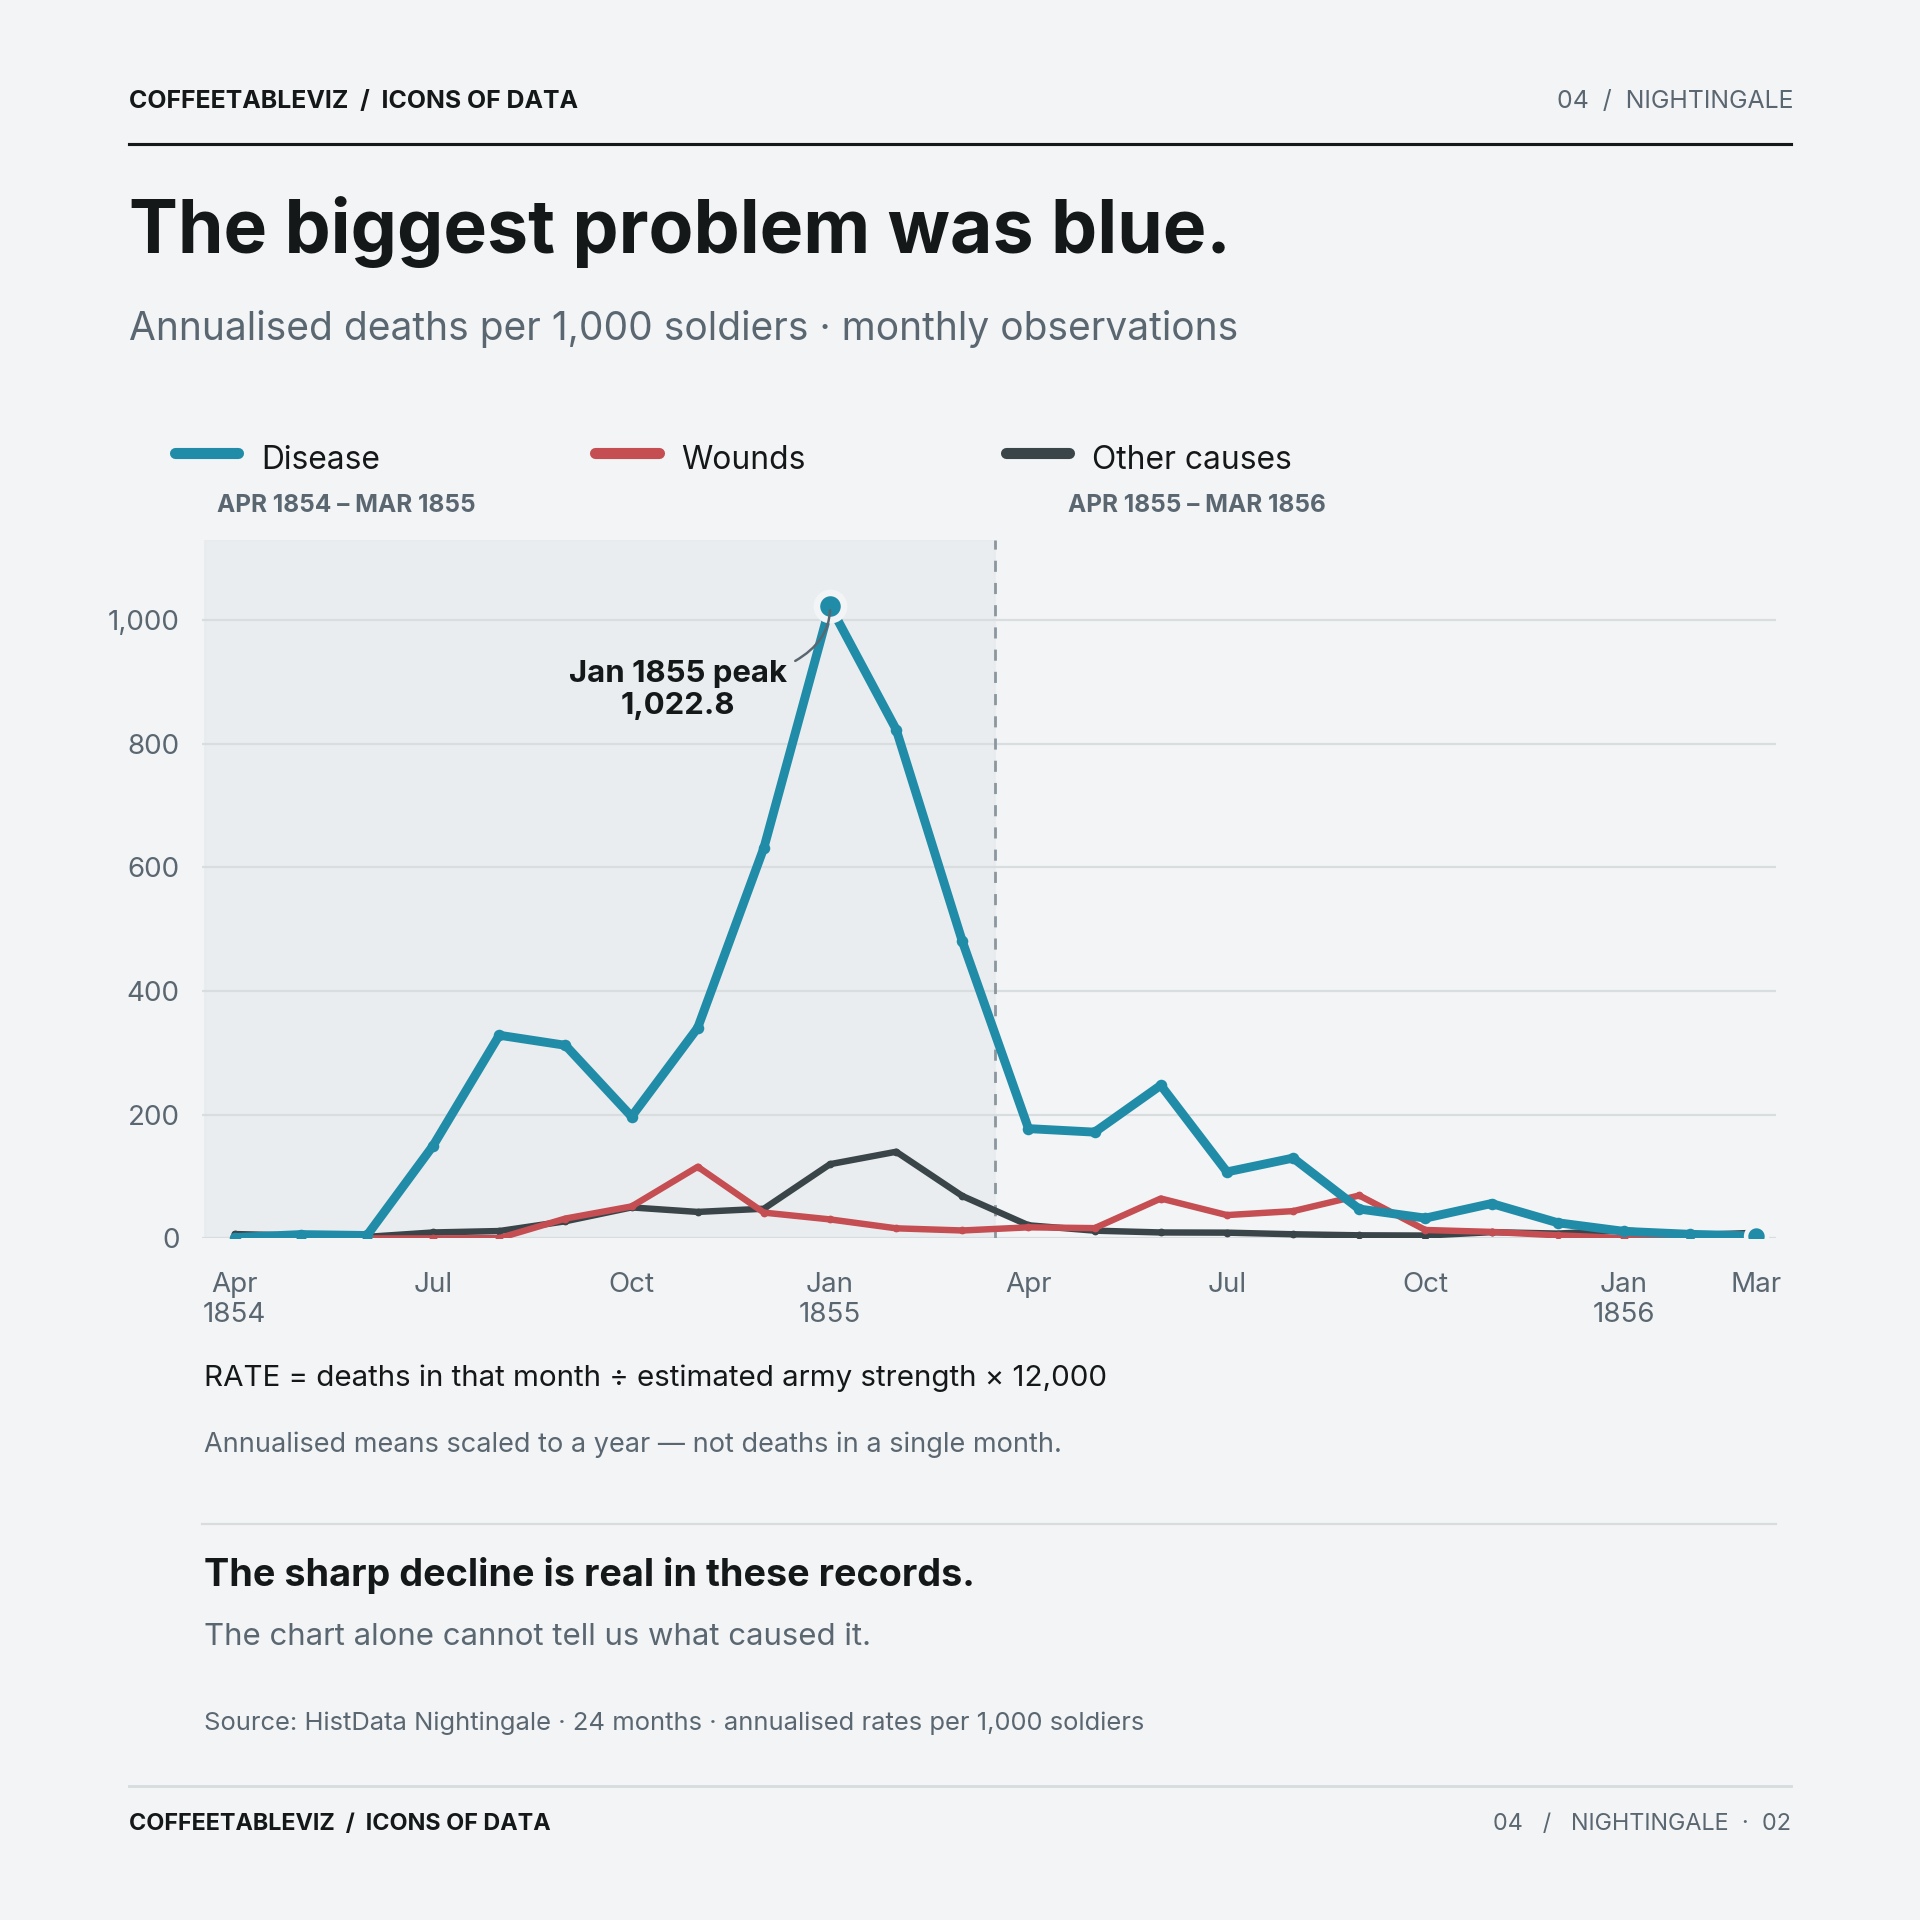
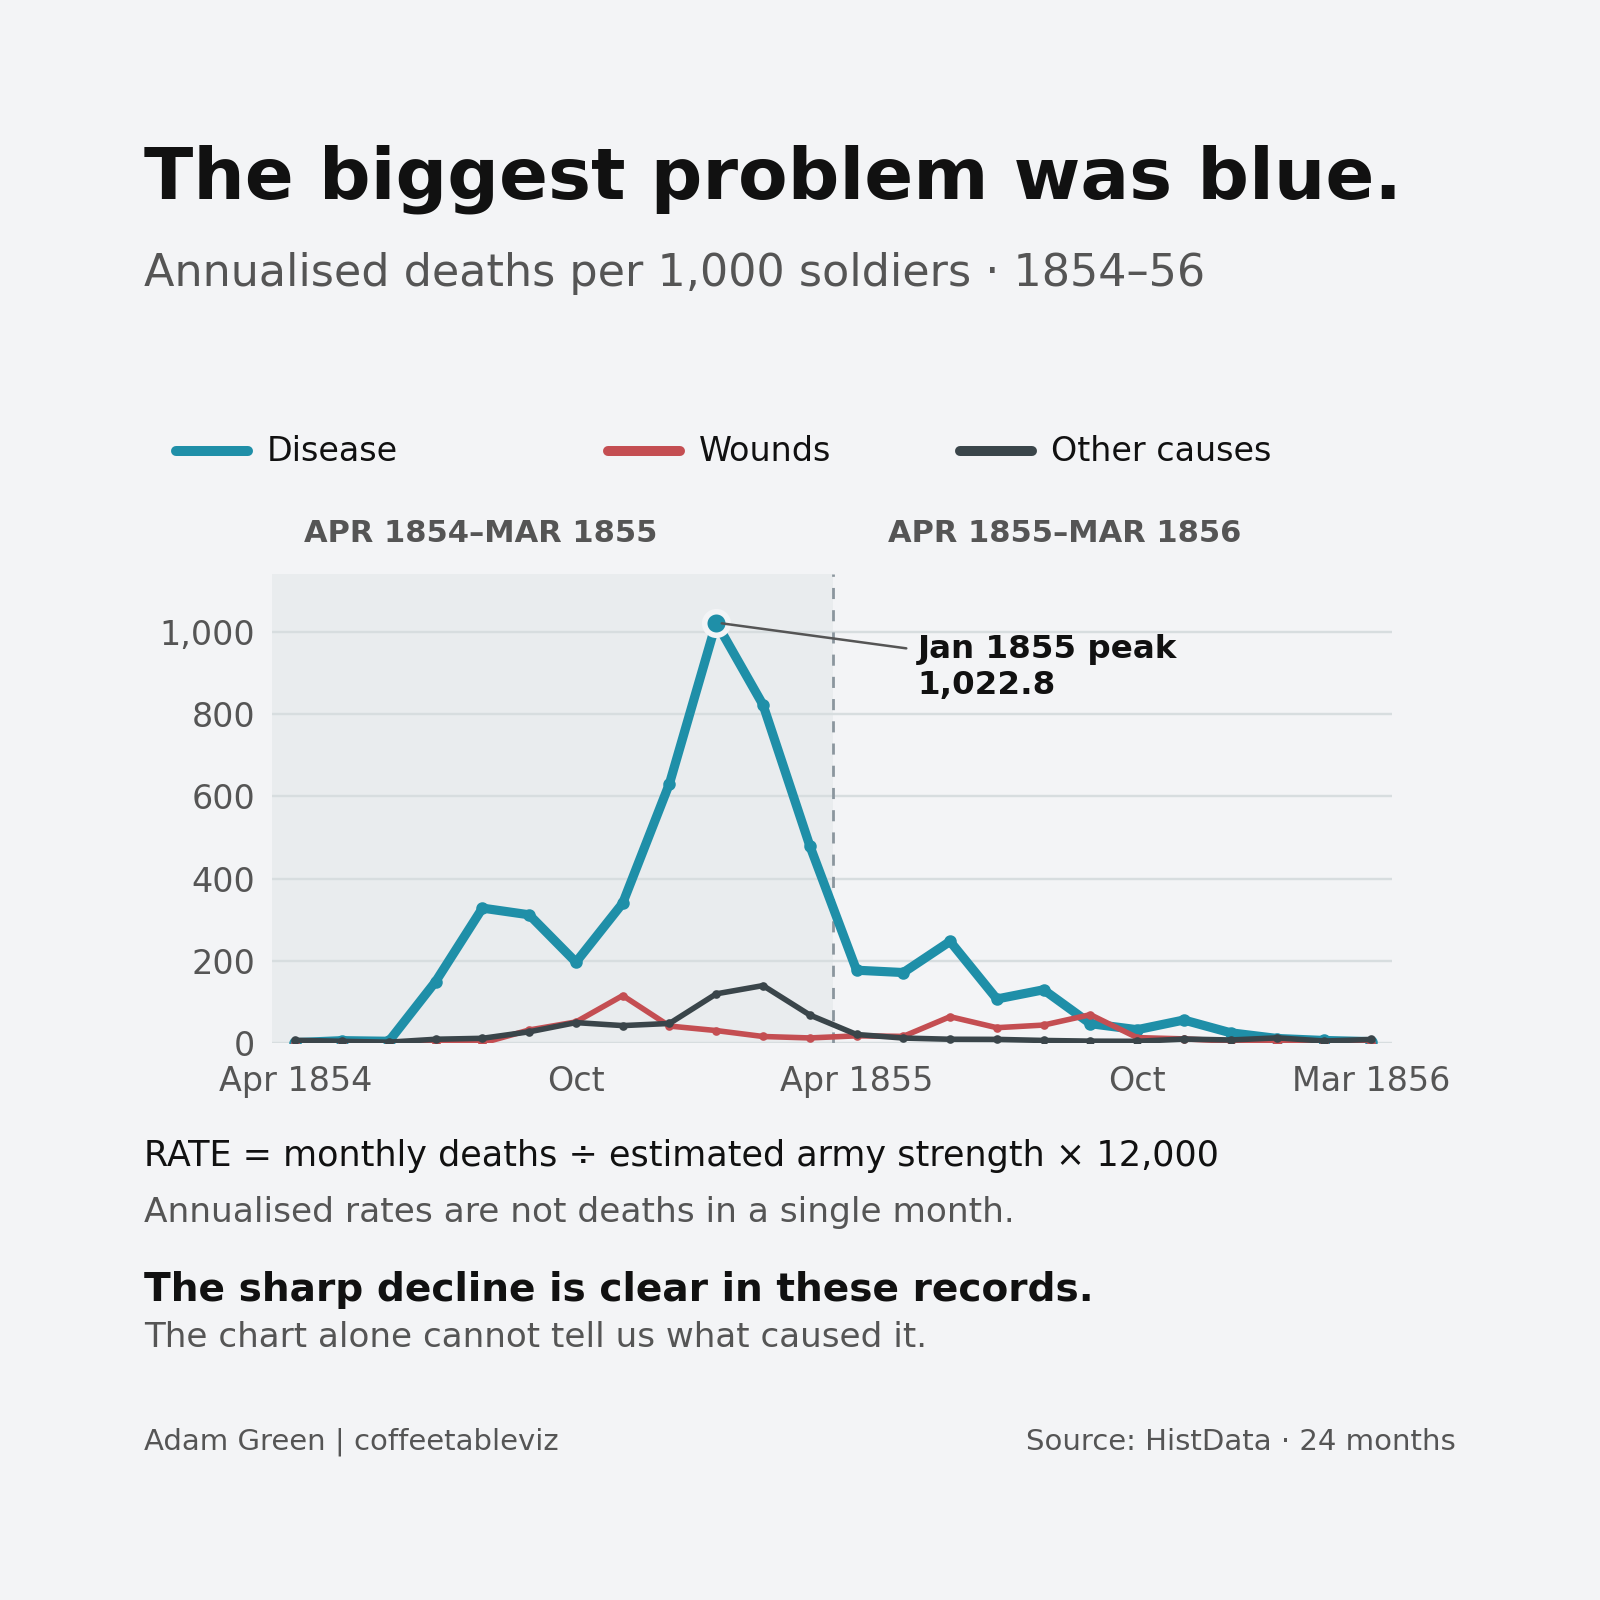
Publish approved Nightingale vNext chart and archive original
* Add data-validated Nightingale rate chart using central Coffeetableviz styling

* Register Nightingale as a shared CHART_CONFIG specialist chart type

* Add Nightingale CHART_CONFIG review fixture pointing to pinned HistData dataset

* Add Nightingale rate integrity tests and isolated GitHub mobile image QA

* Add Nightingale rate integrity tests and isolated GitHub mobile image QA

* Document Nightingale specialist chart type in shared config template

* Fix mobile tick crowding and peak annotation line break, enlarge explanatory copy

* Add one-time exact-artifact Nightingale publication staging gate

* Verify Nightingale PNG metadata without external Python dependencies

* Record author approval of exact Nightingale PNG for publication PR

* Stage exact author-approved Nightingale vNext PNG and preserve original

* Remove temporary one-time exact-artifact staging workflow after successful checksum verification

* Document author-approved Nightingale PNG, checksum and preserved original

---------

diff --git a/src/editorial_nightingale.py b/src/editorial_nightingale.py
@@ -1,0 +1,121 @@
+"""Nightingale's 24-month annualised cause-of-death rates.
+
+A specialised but centrally styled Coffeetableviz chart type. This module
+does not contain data values: it renders the exact pinned HistData rows from
+CHART_CONFIG and validates them before drawing. Do not infer causality.
+"""
+from __future__ import annotations
+
+from datetime import datetime
+from pathlib import Path
+
+import matplotlib.pyplot as plt
+import numpy as np
+
+from chart_style import BG, PRIMARY, ACCENT, TEXT, MUTED, resolve_style
+
+OTHER = "#3A454A"
+GRID = "#D7DDDF"
+CAUSES = (
+    ("Disease.rate", PRIMARY, "Disease", 3.3),
+    ("Wounds.rate", ACCENT, "Wounds", 2.0),
+    ("Other.rate", OTHER, "Other causes", 2.0),
+)
+REQUIRED = {
+    "Date", "Army", "Disease", "Wounds", "Other",
+    "Disease.rate", "Wounds.rate", "Other.rate",
+}
+
+
+def validate_nightingale_rows(rows):
+    """Fail closed if the verified source, ordering or rates drift."""
+    if len(rows) != 24:
+        raise ValueError("Nightingale chart expects 24 monthly HistData records")
+    if not REQUIRED.issubset(set(rows[0])):
+        raise ValueError(f"Missing Nightingale fields: {sorted(REQUIRED - set(rows[0]))}")
+    dates = [datetime.strptime(str(r["Date"]), "%Y-%m-%d") for r in rows]
+    if dates[0].strftime("%Y-%m") != "1854-04" or dates[-1].strftime("%Y-%m") != "1856-03":
+        raise ValueError("Nightingale date range must be Apr 1854–Mar 1856")
+    if any((n.year-p.year)*12 + (n.month-p.month) != 1 for p,n in zip(dates,dates[1:])):
+        raise ValueError("Nightingale must contain exactly consecutive months")
+
+    for r in rows:
+        strength = float(r["Army"])
+        if strength <= 0:
+            raise ValueError("Army strength must be positive")
+        for cause in ("Disease", "Wounds", "Other"):
+            calculated = 12_000 * float(r[cause]) / strength
+            if abs(calculated - float(r[cause + ".rate"])) > 0.051:
+                raise ValueError(f"Invalid annualised {cause} rate for {r['Date']}")
+
+    totals = tuple(sum(int(r[cause]) for r in rows[:12])
+                   for cause in ("Disease","Wounds","Other"))
+    later = tuple(sum(int(r[cause]) for r in rows[12:])
+                  for cause in ("Disease","Wounds","Other"))
+    if totals != (11157, 772, 1365) or later != (3319, 986, 383):
+        raise ValueError("Historical period totals no longer match validated source")
+    if dates[9].strftime("%Y-%m") != "1855-01" or abs(float(rows[9]["Disease.rate"])-1022.8) > .001:
+        raise ValueError("Expected January 1855 annualised-rate peak is missing")
+    if abs(float(rows[-1]["Disease.rate"])-3.9) > .001:
+        raise ValueError("Expected March 1856 disease rate is missing")
+    return dates
+
+
+def render_nightingale_rates(repo_root, config, rows):
+    """Render the original 24-month story in the approved square house frame."""
+    from editorial_schematics import _add_header, _add_footer, _save
+
+    dates = validate_nightingale_rows(rows)
+    if config.get("render_profile") != "social_square":
+        raise ValueError("Nightingale vNext requires the approved shared social_square house profile")
+    st = resolve_style(config)
+    fig = plt.figure(figsize=(8,8), facecolor=BG)
+    _add_header(fig, config["title"], config["subtitle"], config=config)
+
+    # Shared house positioning: all content inside the 8.5% reference frame.
+    legend_y = .718
+    for x, col, label, _ in ((.11,PRIMARY,"Disease",0),(.38,ACCENT,"Wounds",0),(.60,OTHER,"Other causes",0)):
+        fig.add_artist(plt.Line2D([x,x+.045],[legend_y,legend_y],
+                    transform=fig.transFigure,color=col,lw=3.6,solid_capstyle="round"))
+        fig.text(x+.057,legend_y,label,color=TEXT,va="center",fontsize=12.0)
+
+    ax = fig.add_axes([.17,.348,.70,.293], facecolor=BG)
+    x = np.arange(len(dates))
+    ax.axvspan(-.5,11.5,facecolor="#E6EAEC",alpha=.70,zorder=0)
+    ax.axvline(11.5,color="#8B969E",lw=1.0,ls=(0,(4,4)),zorder=1)
+    for key, colour, label, lw in CAUSES:
+        vals=np.array([float(row[key]) for row in rows])
+        ax.plot(x, vals, color=colour, lw=lw, zorder=3, solid_capstyle="round",
+                marker="o", markersize=3.5 if key=="Disease.rate" else 2.1)
+    ax.scatter([9],[1022.8],color=PRIMARY,s=72,edgecolor=BG,linewidths=2.0,zorder=7)
+    ax.annotate("Jan 1855 peak" + chr(10) + "1,022.8",xy=(9,1022.8),xytext=(13.3,995),
+        fontsize=11.7,color=TEXT,fontweight="bold",va="top",ha="left",zorder=8,
+        arrowprops={"arrowstyle":"-","color":MUTED,"lw":.9})
+    ax.set_xlim(-.5,23.45)
+    ax.set_ylim(0,1140)
+    ax.set_yticks([0,200,400,600,800,1000])
+    ax.set_yticklabels(["0","200","400","600","800","1,000"])
+    ax.set_xticks([0,6,12,18,23])
+    ax.set_xticklabels(["Apr 1854","Oct","Apr 1855","Oct","Mar 1856"])
+    ax.tick_params(axis="both",which="both",length=0,colors=MUTED,labelsize=st["tick_label_fontsize"])
+    ax.tick_params(axis="x",pad=8)
+    ax.tick_params(axis="y",pad=6)
+    for spine in ax.spines.values():spine.set_visible(False)
+    ax.grid(axis="y",color=GRID,lw=.85)
+    ax.set_axisbelow(True)
+
+    fig.text(.19,.661,"APR 1854–MAR 1855",fontsize=11,color=MUTED,weight="bold")
+    fig.text(.555,.661,"APR 1855–MAR 1856",fontsize=11,color=MUTED,weight="bold")
+
+    fig.text(.09,.271,"RATE = monthly deaths ÷ estimated army strength × 12,000",
+             fontsize=12.6,color=TEXT)
+    fig.text(.09,.236,"Annualised rates are not deaths in a single month.",
+             fontsize=12.4,color=MUTED)
+    fig.text(.09,.187,"The sharp decline is clear in these records.",
+             fontsize=14.1,color=TEXT,weight="bold")
+    fig.text(.09,.158,"The chart alone cannot tell us what caused it.",
+             fontsize=12.3,color=MUTED)
+
+    _add_footer(fig,"Adam Green | coffeetableviz",
+                config["source_text"],config=config)
+    return _save(fig,Path(repo_root),config)

diff --git a/tests/test_nightingale_vnext.py b/tests/test_nightingale_vnext.py
@@ -1,0 +1,50 @@
+"""Nightingale migration: preserved monthly data, rates and shared profile."""
+import csv
+import sys
+from pathlib import Path
+import importlib.util
+
+import pytest
+
+ROOT = Path(__file__).resolve().parents[1]
+sys.path.insert(0, str(ROOT / "src"))
+from editorial_nightingale import validate_nightingale_rows
+
+SOURCE = ROOT / "archive/projects/2026-10-icons-of-data/editions/04-nightingale/data/nightingale_24_months.csv"
+CONFIG = ROOT / "archive/projects/2026-10-icons-of-data/editions/04-nightingale/config/review_02_nightingale_vnext.py"
+
+
+def rows():
+    with SOURCE.open(newline="", encoding="utf-8") as f:
+        return list(csv.DictReader(f))
+
+
+def test_full_source_is_pinned_and_checked():
+    sample = rows()
+    dates = validate_nightingale_rows(sample)
+    assert len(dates) == 24
+    assert sum(int(r["Disease"]) for r in sample[:12]) == 11157
+    assert sum(int(r["Disease"]) for r in sample[12:]) == 3319
+    assert sample[9]["Date"] == "1855-01-01"
+    assert float(sample[9]["Disease.rate"]) == 1022.8
+
+
+def test_fails_on_rate_or_row_count_change():
+    sample = rows()
+    sample[9]["Disease.rate"] = "1000"
+    with pytest.raises(ValueError, match="annualised"):
+        validate_nightingale_rows(sample)
+    with pytest.raises(ValueError, match="24 monthly"):
+        validate_nightingale_rows(rows()[:-1])
+
+
+def test_preview_is_real_config_and_is_not_site_published():
+    spec = importlib.util.spec_from_file_location("nightingale_config", CONFIG)
+    module = importlib.util.module_from_spec(spec)
+    spec.loader.exec_module(module)
+    config = module.CHART_CONFIG
+    assert config["render_profile"] == "social_square"
+    assert config["chart_type"] == "nightingale_rates"
+    assert ROOT.joinpath(config["data_file"]) == SOURCE
+    assert config["output_file"].startswith("output/")
+    assert not config["output_file"].startswith("site/")

diff --git a/archive/projects/2026-10-icons-of-data/editions/04-nightingale/config/review_02_nightingale_vnext.py b/archive/projects/2026-10-icons-of-data/editions/04-nightingale/config/review_02_nightingale_vnext.py
@@ -1,0 +1,25 @@
+"""Review-only Nightingale replacement, awaiting author visual approval.
+
+The intended production config will be promoted to the normal archive
+project config path and rendered to the approved site image only after sign-off.
+"""
+CHART_CONFIG = {
+    "data_file": "archive/projects/2026-10-icons-of-data/editions/04-nightingale/data/nightingale_24_months.csv",
+    "data_format": "wide",
+    "chart_type": "nightingale_rates",
+    "x_col": "Date",
+    "y_col": "Disease.rate",
+    "series_col": None,
+    "value_col": None,
+    "filters": [],
+    "render_profile": "social_square",
+    "profile_overrides": {},
+    "title": "The biggest problem was blue.",
+    "subtitle": "Annualised deaths per 1,000 soldiers · 1854–56",
+    "source_text": "Source: HistData · 24 months",
+    "footer_left": "Adam Green | coffeetableviz",
+    "fig_width": 8.0,
+    "fig_height": 8.0,
+    "dpi": 200,
+    "output_file": "output/nightingale_vnext_preview.png",
+}

diff --git a/src/editorial_schematics.py b/src/editorial_schematics.py
@@ -17,7 +17,7 @@ SUBTEXT = "#555555"
 WHITE = "#FFFFFF"
 
 
-EDITORIAL_TYPES = {"route_zigzag", "route_longitude", "mode_clusters", "position_shift"}
+EDITORIAL_TYPES = {"route_zigzag", "route_longitude", "mode_clusters", "position_shift", "nightingale_rates"}
 
 
 def _wrap(text, width, max_lines=2):
@@ -552,4 +552,7 @@ def render_editorial_schematic(repo_root, config, rows, columns=None):
         return render_mode_clusters(repo_root, config, rows)
     if chart_type == "position_shift":
         return render_position_shift(repo_root, config, rows)
+    if chart_type == "nightingale_rates":
+        from editorial_nightingale import render_nightingale_rates
+        return render_nightingale_rates(repo_root, config, rows)
     raise ValueError(f"Unsupported editorial schematic chart_type: {chart_type}")

diff --git a/src/chart_config_template.py b/src/chart_config_template.py
@@ -4,7 +4,7 @@ CHART_CONFIG = {
     # ---------------------------
     "data_file": "data/your_file.csv",
     "data_format": "wide",
-    "chart_type": "dot",  # line | bar | dot | scatter | route_zigzag | route_longitude | mode_clusters | position_shift
+    "chart_type": "dot",  # line | bar | dot | scatter | route_zigzag | route_longitude | mode_clusters | position_shift | nightingale_rates
     "orientation": None,  # None | horizontal for bar charts
 
     "x_col": "x_column",

diff --git a/archive/projects/2026-10-icons-of-data/editions/04-nightingale/project_manifest.md b/archive/projects/2026-10-icons-of-data/editions/04-nightingale/project_manifest.md
@@ -32,3 +32,12 @@
[1 lines of base64/hex data omitted]
 
 Actual Jekyll/browser QA (GitHub Actions run [38072120585](https://github.com/adamgreen1708/chart-templates/actions/runs/38072120585)) passed at desktop 1365px, mobile 390px and narrow 320px, verifying three images, alt text, citations, Wellcome CC BY licensing, no page overflow and all four Resources entries. Saved branch screenshots under `qa/site/`. Temporary workflow and compressed transfer helper removed. No merge/Pages publication authorised.
+
+
+## Chart #02 vNext migration approval — 30 October 2026
+
[1 lines of base64/hex data omitted]
+
+The previous published chart #02 is preserved unchanged at `legacy/02_what_the_numbers_reveal_2026-10_original.png`, whose Git blob is `48f4199232faab2ccac58ddd705484439f03fcca`. The source 24-month HistData transcription, historical original #01, decoder #03, and original renderer script remain unmodified.
+
+The new chart uses `src/editorial_nightingale.py` registered via `src/editorial_schematics.py`; source QA covers annualised rates, exact period death totals, historical caveats and final-pixel checks. Publication via PR #164; no direct pushes to main.
